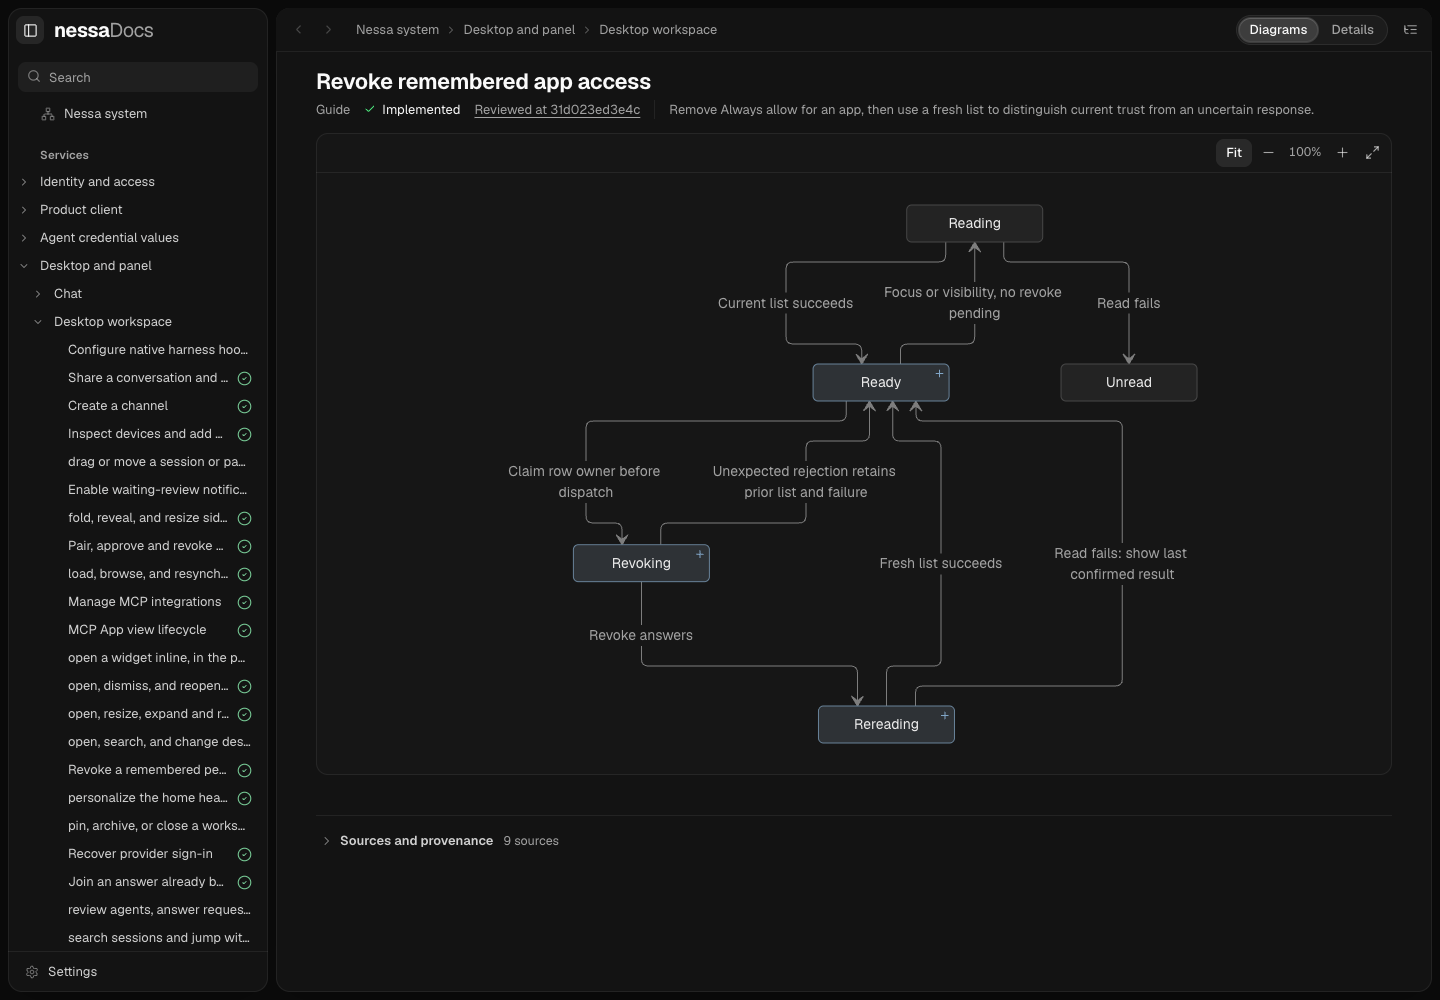
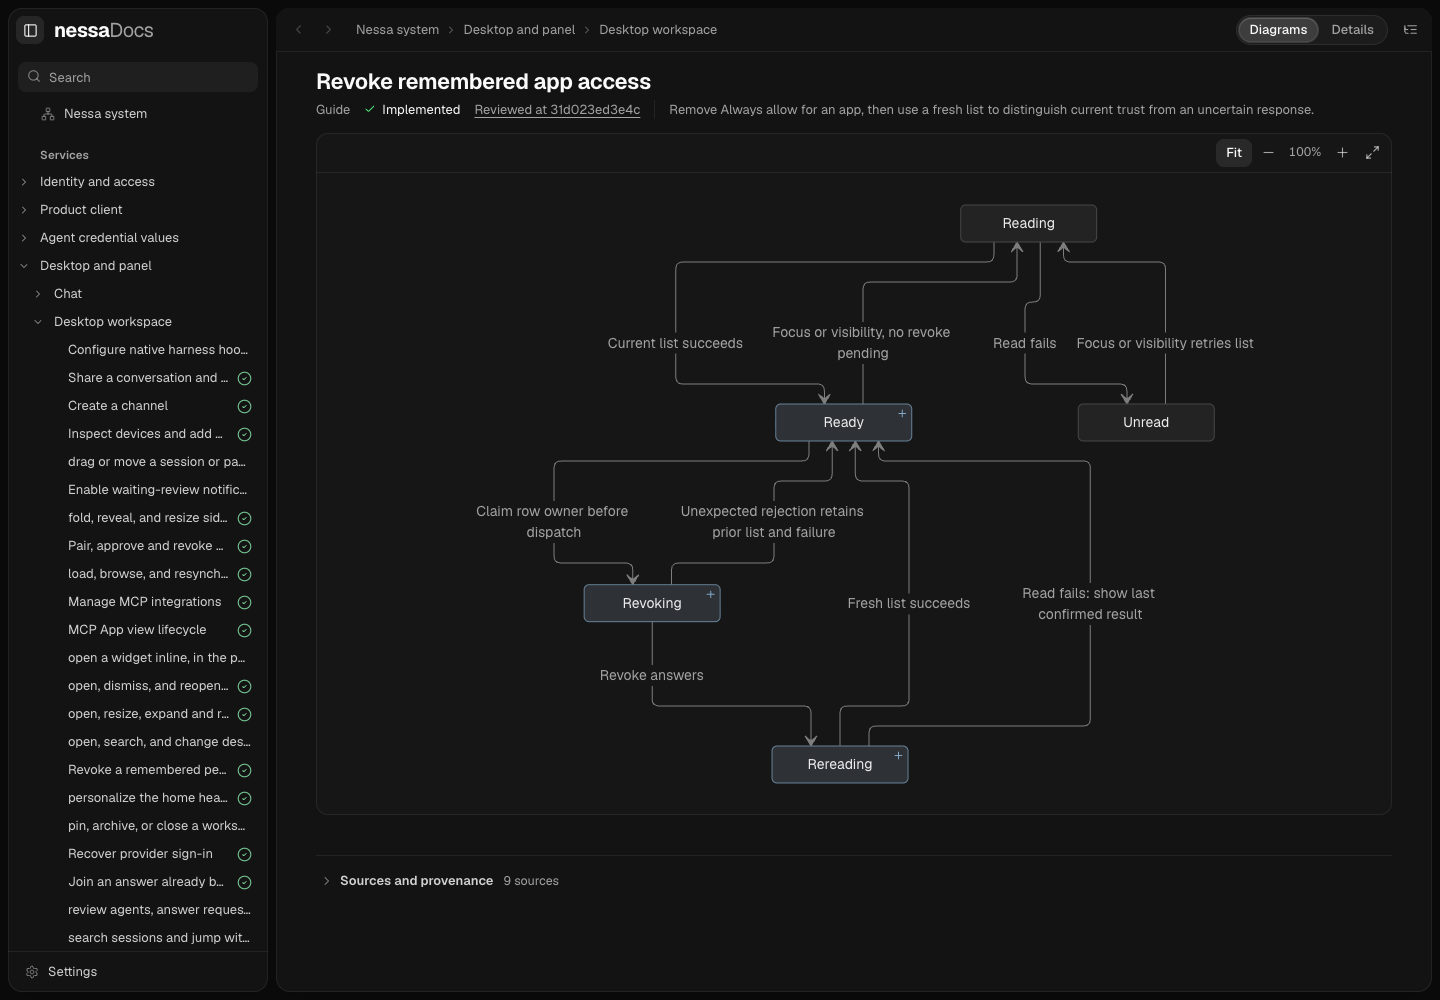
docs: show app-list read recovery

diff --git a/verification/state-models/feature-refresh-1268/independent-review.md b/verification/state-models/feature-refresh-1268/independent-review.md
@@ -7,3 +7,5 @@ Docs-only tasks were answered before source sampling: preference chooses A if el
 Reader findings: define lease/binding/provider context at first use; replace internal publication-identity and chart acknowledgement jargon. Author added local definitions and plain chart wording. Reviewer confirmed closure. Technical source samples: placement ranking/busy selection; channel creation lock and audit; app_calls audit order; TrustedAppRows generation/busy fencing. These support the scoped explanations. Final navigation correction changed Settings→Access to Settings→Privacy & Permissions→Access. Reviewer reported no other material issue and authorized publication after browser checks.
 
 Limits: sampled current source, no whole repository re-audit. New guides are source-only and add no formal pass. Existing model receipts and page checkpoints are unchanged. Browser and mechanical checks are author-owned; product test execution is explicitly not claimed.
+
+Author visual follow-up: added the source-supported Unread→Reading focus/visibility recovery edge and rerendered all four changed pages; no behavior or formal claim changed.

diff --git a/docs/state/services/desktop/workspace/revoke-remembered-app-access.md b/docs/state/services/desktop/workspace/revoke-remembered-app-access.md
@@ -45,6 +45,7 @@ stateDiagram-v2
     Rereading --> Ready: Read fails: show last confirmed result
     Revoking --> Ready: Unexpected rejection retains prior list and failure
     Ready --> Reading: Focus or visibility, no revoke pending
+    Unread --> Reading: Focus or visibility retries list
 ```
 
 ## What a reply and a list mean
